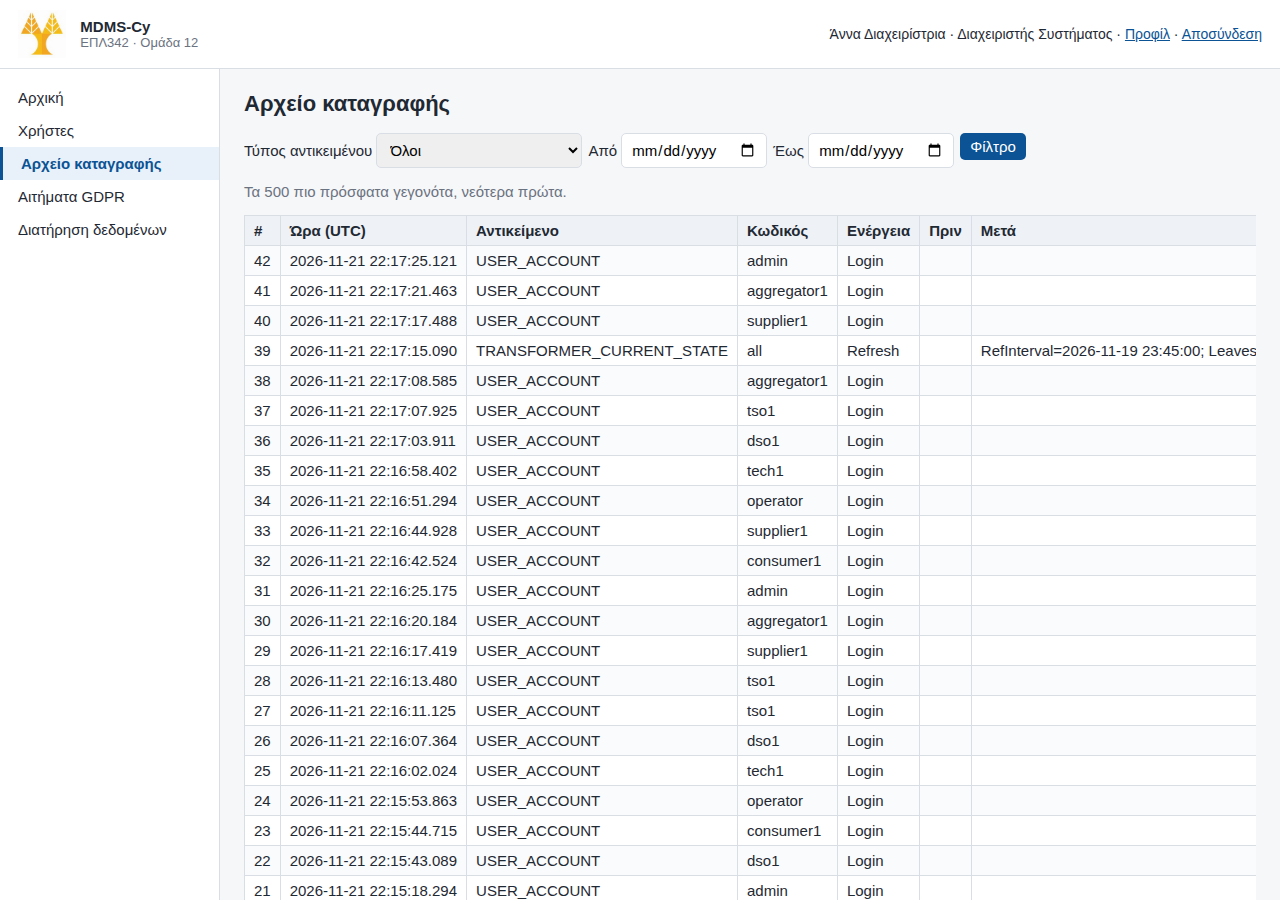
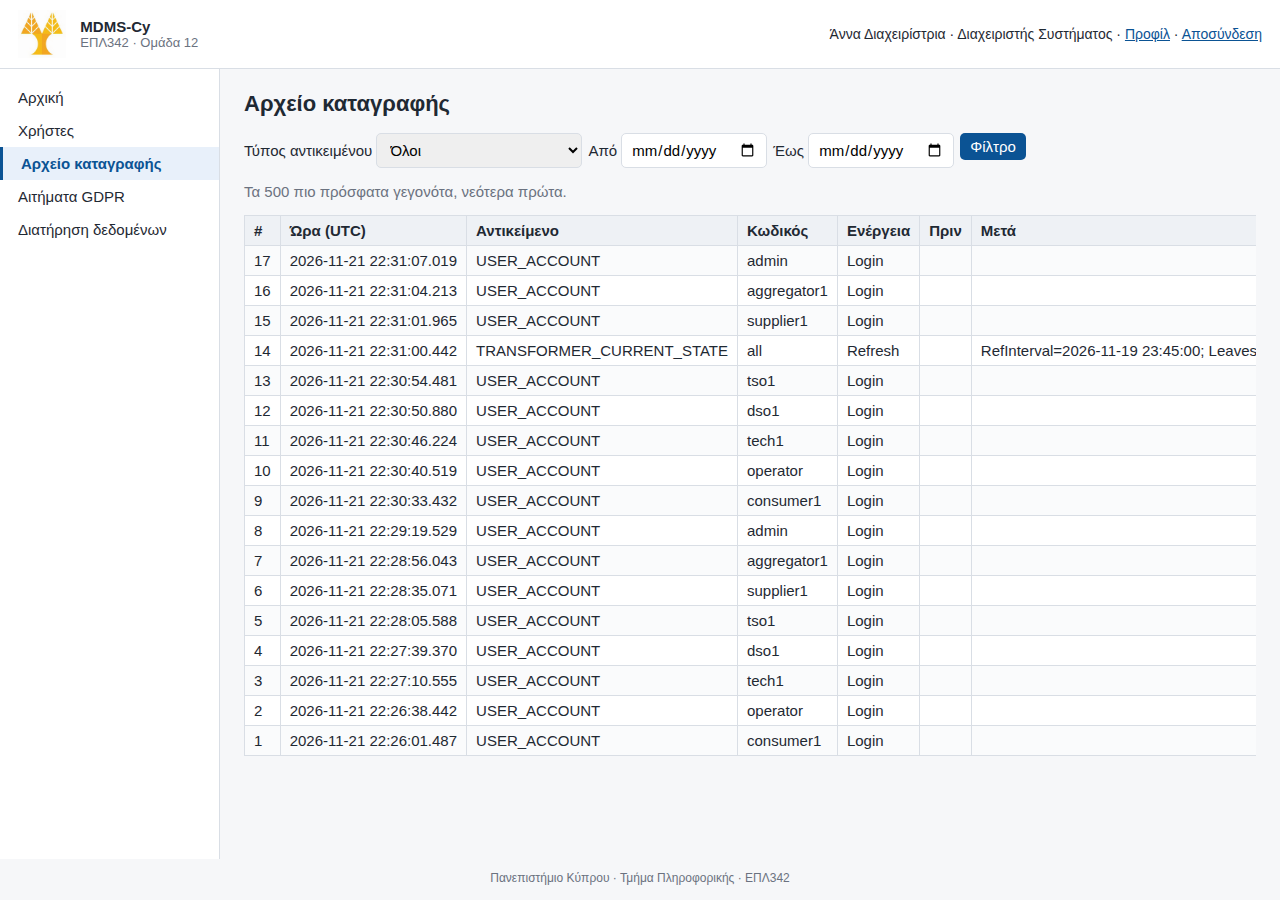
REL-2: clean release build rehearsal on apieri01 passes; screenshots retaken; session note

diff --git a/docs/next-session.md b/docs/next-session.md
@@ -2,27 +2,24 @@
 
 > Written by `finish` at the end of every session and read first by `start`. The newest copy on any branch wins.
 
-**Written:** 2026-11-21 19:55 UTC · Merged this session (at the human's request): #36 TEC-6..10, #37 DAT-5, #38 SEC-1, #39 board marks, #40 PRF-4. Open: #35 (DOC-1 draft).
+**Written:** 2026-11-22 · Merged this session: #35 DOC-1 user manual, #41 DOC-2 ER diagrams, #42 release pack (REL-1/3/4 prep), REL-2 rehearsal (this PR).
 
-## What this session did
-- DOC-1: first draft of `docs/21-user-manual.md` (task stays ○, PR #35 is a draft).
-- TEC-6..10: with the human's OK, after checking the branch was idle (lock free, last push ~1 h earlier, no PR), merged main and
-  fixed the one failing test (a test bug); opened PR #36.
-- DAT-5: `select.sql` part 2, E01–E37 (PR #37). SEC-1: `check_pages.py` + `test_security.sql` (PR #38).
-- PRF-4: fixed `sql/perf/before_after.sql`, measured (VEE Pending 244 -> 5 reads), `sql/perf/perf_10000.py` 100% < 2 s.
-- Cleaned stale rows in `docs/claims.md` on main. Rule from the human: take only tasks that can be fully finished now.
-- Everything left needs the human or a running app (REL-1 onward, DOC-1, DOC-2).
+## State
+All build work is done: every area's procedures, tests, pages, data sets, indexes, security check, 10,000-request test,
+user manual (50 screenshots), final ER + relational diagrams, data dictionary, separate document, release runbook,
+demo script, zip builder. Only the human steps below remain.
 
-## Open PRs
-| Task | Branch | State |
-|---|---|---|
-| DOC-1 user manual | `task/DOC-1-user-manual` | DRAFT (PR #35). Task stays ○: finish when the app is complete (screenshots, TEC sections 3.4/3.5/4.5, DOC-2 ER, final label check) |
+## REL-2 result (22/11, member database `apieri01`)
+`python sql/tools/build_all.py --release --drop` then `run_sql.ps1 -File sql/build/ALL.sql -AllowDestructive`: exit 0.
+`verify_release.sql`: all OK (16.7 MB of 27, Query Store off, large-set counts, 3 indexes, 8 demo users).
+`select.sql`: 0 errors. `smoke_site.py` on the local demo: 53 pages, 0 problems. Screenshots retaken (`shoot.py`).
+`make_zip.py`: `12.zip` 13.3 MB, 137 files, no `config.php`, two docx with images.
 
-## Next actions
-1. REL-1: build on `sharal01` without tests + `sql/import.sql`, deploy `sources/` to `~sharal01/public_html/mdms` (needs the human).
-2. With the app running: DOC-1 TEC sections and screenshots; `before_after.sql` in SSMS with Ctrl+M for the plan screenshots (doc 14).
-3. DOC-2 final ER (ERD+) from the final `create.sql`.
-4. REL-2 clean rehearsal, REL-3 demo rehearsal, REL-4 zip and upload.
+## Next actions (need people)
+1. **REL-1 (owner of `sharal01`):** follow [docs/23-release.md](23-release.md): release build, `verify_release.sql`,
+   `select.sql`, deploy `sources/` to `~sharal01/public_html/mdms` (web host name: from the Lab 7 handout), `smoke_site.py` on the deployed URL.
+2. **REL-3 (team, 3/12):** fill Presenter 1-4 in [docs/24-demo-script.md](24-demo-script.md), rehearse, time it; rebuild the demo DB after the rehearsal.
+3. **REL-4 (4/12 before 11:00):** `python sql/tools/make_zip.py`, open the zip, print `build/docx/`, upload `12.zip` to Moodle (check the size limit; 13 MB now).
 
 ## Database state
-Only local Docker databases were used this session. Member database `apieri01` as described by the previous session (rebuilt without tests + base + large set).
+`apieri01`: clean release build (no tests) + base + large set, Query Store OFF. Local demo: WSL PHP on port 8342 (doc 02).

diff --git a/docs/tasks.md b/docs/tasks.md
@@ -146,7 +146,7 @@ change them only through the schema-change process or in the coordinating sessio
 | DOC-2 | New ER diagram (Chen, ERD+) + relational diagram matching the final `create.sql` | REL-1 | 2/12 | ✓ | Decision B13; `docs/22-er-diagram.md`, `sql/tools/er_diagram.py` |
 | DOC-3 | Data dictionary (every table and column explained) | | 2/12 | ✓ | `docs/20-data-dictionary.md`, generated by `sql/tools/dictionary.py` |
 | DOC-4 | **One** separate document with (a) contention, (b) security, (c) extension (+ indexes, before/after, 10,000-request test) | SEC-2, CCY-1, EXT-1 | 2/12 | ✓ | docx: the separate document |
-| REL-2 | Clean-database rehearsal: drop → create → procs → indexes → data | REL-1 | 3/12 | ○ | |
+| REL-2 | Clean-database rehearsal: drop → create → procs → indexes → data | REL-1 | 3/12 | ✓ | 22/11 on `apieri01`: `build_all.py --release --drop` ran clean, `verify_release.sql` all OK (16.7 MB), `select.sql` 0 errors, `smoke_site.py` 53 pages 0 problems. Repeat on `sharal01` as part of REL-1 |
 | REL-3 | 30-minute demo rehearsal (everyone presents and explains an area they did not build) | REL-2 | 3/12 | ○ | Pack ready, needs the human: script in [24](24-demo-script.md); presenters 1 to 4 to be named |
 | REL-4 | `12.zip` + printed `docx/` + Moodle upload before 11:00 | REL-3 | 4/12 | ○ | Pack ready, needs the human: `python sql/tools/make_zip.py`, checklist in [23](23-release.md) section 4 |
 | REL-5 | `sql/select.sql`: demo and analytic queries for the exam (not part of the build) | | 2/12 | ✓ | 27 queries; parse check on a database pending |

diff --git a/docs/handoff/REL-2.md b/docs/handoff/REL-2.md
@@ -1,0 +1,14 @@
+# Handoff: REL-2 clean-database rehearsal
+
+Lock: free
+
+Branch: task/REL-2-rehearsal
+Doc: docs/23-release.md
+Status: finished (on `apieri01`)
+
+## Done so far
+- 2026-11-22: release build from scratch on `apieri01` (exit 0), `verify_release.sql` all OK, `select.sql` 0 errors,
+  `smoke_site.py` 53 pages 0 problems, screenshots retaken, `12.zip` built (13.3 MB).
+
+## Next step
+Same steps on `sharal01` as part of REL-1.
